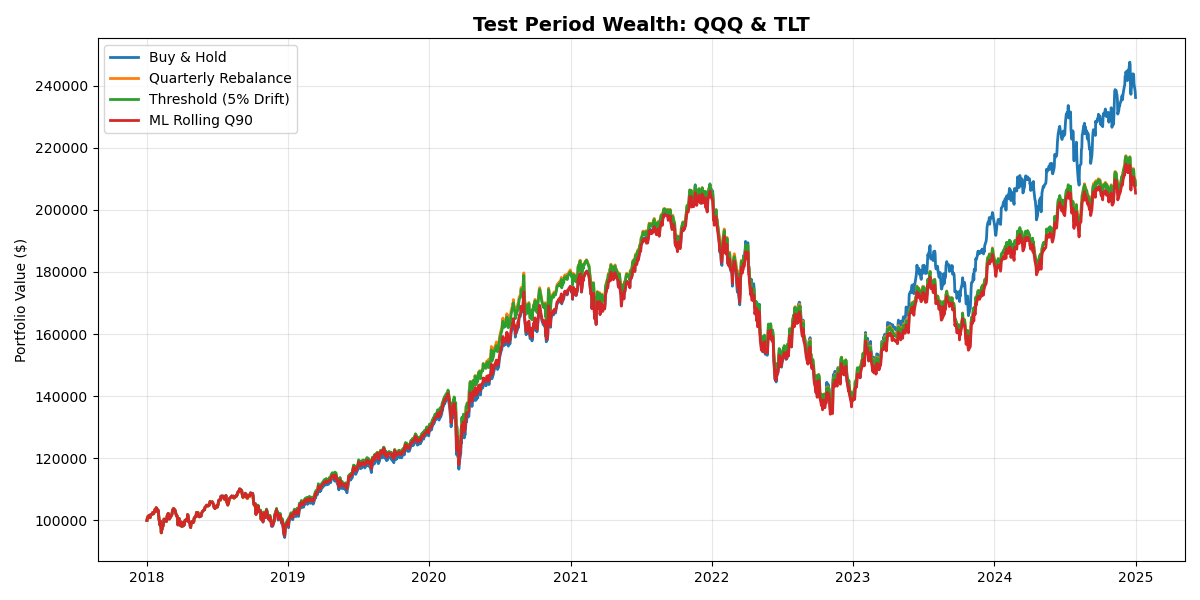
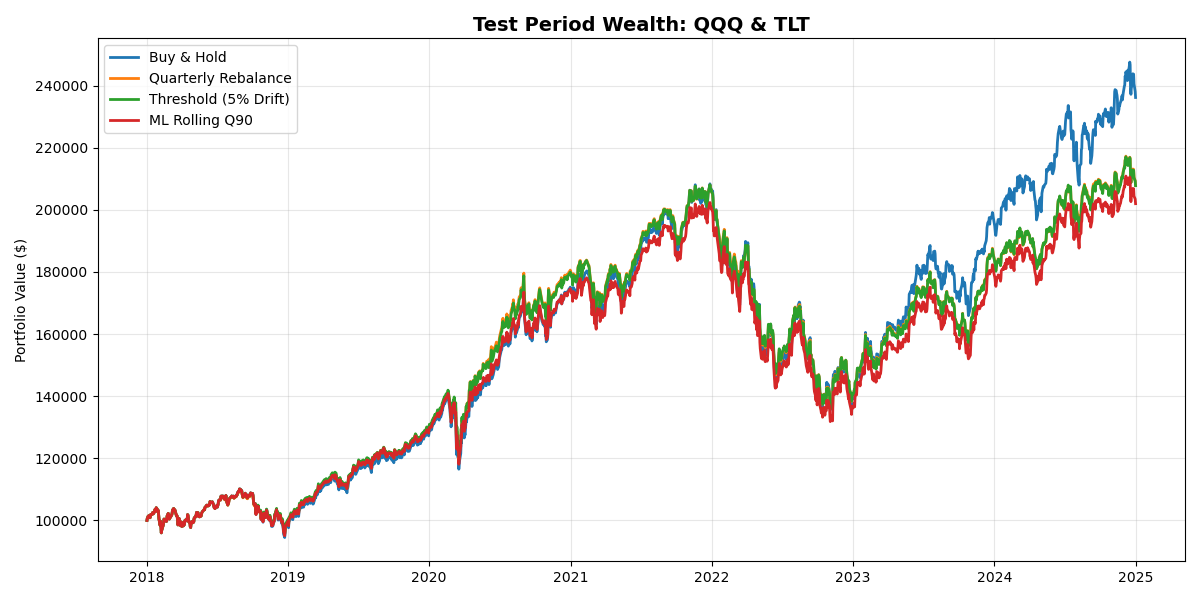
Report Sortino (remove Sharpe) and align transaction cost

Changed region(s): [[0.4625, 0.27, 0.9558, 0.72]]

diff --git a/src/portfolio.py b/src/portfolio.py
@@ -69,7 +69,7 @@ def simulate_buy_hold(prices, initial_wealth=None):
 
 def simulate_calendar_rebalancing(prices, frequency="monthly", transaction_cost=None, initial_wealth=None):
     iw = initial_wealth or config.initial_wealth
-    tc = transaction_cost if transaction_cost is not None else config.transaction_cost[1]
+    tc = transaction_cost if transaction_cost is not None else config.transaction_cost[2]
 
     p = Portfolio(iw, config.stock_weight, config.bond_weight)
     p.initialize_holdings(prices["stock"].iloc[0], prices["bond"].iloc[0])
@@ -99,7 +99,7 @@ def simulate_calendar_rebalancing(prices, frequency="monthly", transaction_cost=
 
 def simulate_threshold_rebalancing(prices, threshold=None, transaction_cost=None, initial_wealth=None):
     iw = initial_wealth or config.initial_wealth
-    tc = transaction_cost if transaction_cost is not None else config.transaction_cost[1]
+    tc = transaction_cost if transaction_cost is not None else config.transaction_cost[2]
     thr = threshold if threshold is not None else config.thresholds_options[1]
 
     p = Portfolio(iw, config.stock_weight, config.bond_weight)
@@ -130,7 +130,7 @@ def simulate_threshold_rebalancing(prices, threshold=None, transaction_cost=None
 
 def simulate_ml_rebalancing(prices, ml_predictions, prob_threshold=0.0, transaction_cost=None, initial_wealth=None):
     iw = initial_wealth or config.initial_wealth
-    tc = transaction_cost if transaction_cost is not None else config.transaction_cost[1]
+    tc = transaction_cost if transaction_cost is not None else config.transaction_cost[2]
     pt = float(prob_threshold)
     min_d = min(config.thresholds_options)
 
@@ -161,18 +161,22 @@ def simulate_ml_rebalancing(prices, ml_predictions, prob_threshold=0.0, transact
     return pd.DataFrame(rows).set_index("date")
 
 
-def calculate_performance_metrics(results, initial_wealth=None):
-    iw = initial_wealth or config.initial_wealth
-    v = results["value"]
+def calculate_performance_metrics(results,initial_wealth=None):
+    iw=initial_wealth or config.initial_wealth
+    v=results["value"]
 
-    total_ret = (v.iloc[-1] - iw) / iw
-    n_years = len(v) / config.trading_days_per_year
-    ann_ret = (1 + total_ret) ** (1 / n_years) - 1 if n_years > 0 else 0
+    total_ret=(v.iloc[-1]-iw)/iw
+    n_years=len(v)/config.trading_days_per_year
+    ann_ret=(1+total_ret)**(1/n_years)-1 if n_years>0 else 0.0
 
-    daily_ret = v.pct_change().dropna()
-    ann_vol = daily_ret.std() * np.sqrt(config.trading_days_per_year) if len(daily_ret) > 1 else 0
-    sharpe = (ann_ret - config.risk_free_rate) / ann_vol if ann_vol > 0 else 0
+    daily_ret=v.pct_change().dropna()
+    ann_vol=daily_ret.std(ddof=0)*(config.trading_days_per_year**0.5) if len(daily_ret)>1 else 0.0
 
-    dd = (v - v.expanding().max()) / v.expanding().max()
+    neg=daily_ret[daily_ret<0]
+    down_std=neg.std(ddof=0) if len(neg)>1 else 1e-9
+    ann_down=down_std*(config.trading_days_per_year**0.5)
+    sortino=(daily_ret.mean()/down_std)*(config.trading_days_per_year**0.5) if len(daily_ret)>1 else 0.0
 
-    return {"total_return": total_ret, "annualized_return": ann_ret, "annualized_volatility": ann_vol, "sharpe_ratio": sharpe, "max_drawdown": dd.min(), "n_rebalances": int(results["rebalanced"].sum()), "avg_drift": float(results["drift"].mean()), "max_drift": float(results["drift"].max()), "final_value": float(v.iloc[-1]), "total_costs": float(results["cost"].sum()), "total_turnover": float(results["turnover"].sum())}
+    dd=(v-v.expanding().max())/v.expanding().max()
+
+    return {"total_return":total_ret,"annualized_return":ann_ret,"annualized_volatility":ann_vol,"annualized_downside_volatility":ann_down,"sortino_ratio":sortino,"max_drawdown":dd.min(),"n_rebalances":int(results["rebalanced"].sum()),"avg_drift":float(results["drift"].mean()),"max_drift":float(results["drift"].max()),"final_value":float(v.iloc[-1]),"total_costs":float(results["cost"].sum()),"total_turnover":float(results["turnover"].sum())}

diff --git a/src/analysis_table.py b/src/analysis_table.py
@@ -10,13 +10,13 @@ def generate_report_table():
 
     df = pd.read_csv(results_path, index_col=0)
 
-    report = df[["sharpe_ratio", "annualized_return", "annualized_volatility", "n_rebalances", "final_value"]].copy()
-    report.columns = ["Sharpe", "Ann. Return", "Ann. Vol", "Rebalances", "Final Value ($)"]
-
-    report["Sharpe"] = report["Sharpe"].round(3)
-    report["Ann. Return"] = (report["Ann. Return"] * 100).round(2).astype(str) + "%"
-    report["Ann. Vol"] = (report["Ann. Vol"] * 100).round(2).astype(str) + "%"
-    report["Final Value ($)"] = report["Final Value ($)"].apply(lambda x: f"${x:,.0f}")
+    report=df[["sortino_ratio","annualized_return","annualized_downside_volatility","annualized_volatility","n_rebalances","final_value"]].copy()
+    report.columns=["Sortino","Ann. Return","Ann. Downside Vol","Ann. Vol","Rebalances","Final Value ($)"]
+    report["Sortino"]=report["Sortino"].round(3)
+    report["Ann. Return"]=(report["Ann. Return"]*100).round(2).astype(str)+"%"
+    report["Ann. Downside Vol"]=(report["Ann. Downside Vol"]*100).round(2).astype(str)+"%"
+    report["Ann. Vol"]=(report["Ann. Vol"]*100).round(2).astype(str)+"%"
+    report["Final Value ($)"]=report["Final Value ($)"].apply(lambda x:f"${x:,.0f}")
 
     output_path = config.table_direction / "summary_table.md"
     report.to_markdown(output_path)

diff --git a/src/backtesting.py b/src/backtesting.py
@@ -51,10 +51,9 @@ def run_backtest():
         paths[tag] = simulate_ml_rebalancing(px_test, ml_map_test, prob_threshold=0.0, initial_wealth=config.initial_wealth)
 
     stats = {k: calculate_performance_metrics(v, initial_wealth=config.initial_wealth) for k, v in paths.items()}
-    res = pd.DataFrame(stats).T.sort_values("sharpe_ratio", ascending=False)
-
-    print("BACKTEST RESULTS (TEST ONLY, sorted by sharpe ratio)")
-    display_cols = ["sharpe_ratio", "annualized_return", "annualized_volatility", "n_rebalances", "total_costs", "final_value"]
+    res=pd.DataFrame(stats).T.sort_values("sortino_ratio",ascending=False)
+    print("BACKTEST RESULTS (TEST ONLY, sorted by sortino ratio)")
+    display_cols=["sortino_ratio","annualized_return","annualized_downside_volatility","annualized_volatility","n_rebalances","total_costs","final_value"]
     print(res[display_cols].to_string())
 
     out_path = config.get_backtest_file_path()

diff --git a/config.py b/config.py
@@ -16,7 +16,6 @@ thresholds_options=[0.03,0.05,0.07] #3%,5%,7% thresholds
 transaction_cost=[0,0.0005, 0.001, 0.0015] #0.15% per transaction
 # transaction_cost is applied to total turnover (amount bought + amount sold)
 #performance metrics
-risk_free_rate = 0.02  # 2% annual risk-free rate for Sharpe Ratio calculation
 trading_days_per_year = 252 # Trading days per year (for annualization)
 #data parameters for testing indicators
 volatility_past_period= 20 # i used 20 days since it's approximately one month of trading days

diff --git a/src/labels.py b/src/labels.py
@@ -71,7 +71,7 @@ def load_labels():
 if __name__ == "__main__":
     config.make_dirs()
     px = clean_prices(download_prices(refresh=False))
-    lbls = create_labels(px, tc=0.001, h=config.horizon, lag=config.trade_lag_days, min_d=min(config.thresholds_options))
+    lbls=create_labels(px,tc=config.transaction_cost[2],h=config.horizon,lag=config.trade_lag_days,min_d=min(config.thresholds_options))
     print(f"cnt: {len(lbls)}")
     print(f"pos: {int(lbls.sum())} | rate: {lbls.mean():.4f}")
     print(lbls.head(10))

diff --git a/outputs/tables/summary_table.md b/outputs/tables/summary_table.md
@@ -1,10 +1,10 @@
-|                    |   Sharpe | Ann. Return   | Ann. Vol   |   Rebalances | Final Value ($)   |
-|:-------------------|---------:|:--------------|:-----------|-------------:|:------------------|
-| buy_hold           |    0.665 | 13.09%        | 16.67%     |            0 | $236,157          |
-| calendar_quarterly |    0.603 | 11.05%        | 15.01%     |           27 | $207,961          |
-| threshold_5pct     |    0.595 | 11.04%        | 15.19%     |           11 | $207,894          |
-| calendar_yearly    |    0.581 | 10.76%        | 15.07%     |            6 | $204,262          |
-| ml_rollq_90        |    0.58  | 10.85%        | 15.25%     |            8 | $205,376          |
-| calendar_monthly   |    0.578 | 10.68%        | 15.01%     |           83 | $203,259          |
-| threshold_3pct     |    0.569 | 10.62%        | 15.15%     |           26 | $202,472          |
-| threshold_7pct     |    0.563 | 10.61%        | 15.3%      |            4 | $202,344          |
+|                    |   Sortino | Ann. Return   | Ann. Downside Vol   | Ann. Vol   |   Rebalances | Final Value ($)   |
+|:-------------------|----------:|:--------------|:--------------------|:-----------|-------------:|:------------------|
+| buy_hold           |     1.118 | 13.09%        | 12.25%              | 16.66%     |            0 | $236,157          |
+| calendar_quarterly |     1.073 | 11.03%        | 10.81%              | 15.0%      |           27 | $207,800          |
+| threshold_5pct     |     1.056 | 11.03%        | 11.01%              | 15.19%     |           11 | $207,766          |
+| calendar_yearly    |     1.046 | 10.76%        | 10.86%              | 15.06%     |            6 | $204,202          |
+| calendar_monthly   |     1.041 | 10.66%        | 10.82%              | 15.01%     |           83 | $203,023          |
+| ml_rollq_90        |     1.023 | 10.58%        | 10.97%              | 15.15%     |            9 | $201,977          |
+| threshold_3pct     |     1.022 | 10.61%        | 11.0%               | 15.15%     |           26 | $202,319          |
+| threshold_7pct     |     1.014 | 10.61%        | 11.1%               | 15.3%      |            4 | $202,287          |
